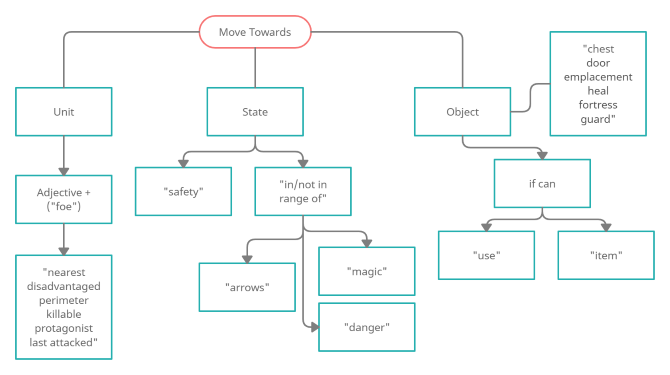
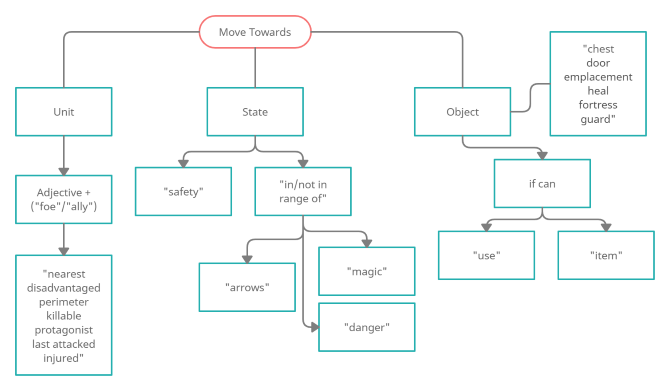
AI sheets work
-added basic assassin
-added basic healer
-updated help

diff --git a/src/UI_unit_editor_wnd.py b/src/UI_unit_editor_wnd.py
@@ -422,7 +422,7 @@ class UnitEditorWnd(QWidget):
         self.strategic_mindless_slider.setValue(self.dv_slider_dv[1])
         self.cautious_brash_slider.setValue(self.dv_slider_dv[2])
         
-        self.default_values.addItems(["--Select--", "Foot Soldier", "Pegasus (Flying) Knight", "Mindless Creature"])
+        self.default_values.addItems(["--Select--", "Foot Soldier", "Pegasus (Flying) Knight", "Mindless Creature", "Cautious Healer", "Solo Assassin"])
         default_values_button = QPushButton("Load Default")
         default_values_button.clicked.connect(self.AILoadSheets)
         
@@ -601,56 +601,55 @@ class UnitEditorWnd(QWidget):
         a.exec_()
         
     def AILoadSheets(self, ca=True):
-        if ca:
-            p = confirmAction("#Your changes will be lost if not saved, continue?")
-            p.exec_()
-            if p.return_confirm:
-                sheet = self.default_values.currentText()
-                if sheet != "--Select--":
-                    self.sheetsFromJSON()
-                    self.table_data = self.sheets[sheet]
+        p = confirmAction("#Your changes will be lost if not saved, continue?")
+        p.exec_()
+        if p.return_confirm:
+            sheet = self.default_values.currentText()
+            if sheet != "--Select--":
+                self.sheetsFromJSON()
+                self.table_data = self.sheets[sheet]
+                
+                self.dv_slider_dv = self.dv_slider_from_sheet[sheet]
                     
-                    self.dv_slider_dv = self.dv_slider_from_sheet[sheet]
-                        
-                    self.solider_lone_wolf_slider.setValue(self.dv_slider_dv[0])
-                    self.strategic_mindless_slider.setValue(self.dv_slider_dv[1])
-                    self.cautious_brash_slider.setValue(self.dv_slider_dv[2])
+                self.solider_lone_wolf_slider.setValue(self.dv_slider_dv[0])
+                self.strategic_mindless_slider.setValue(self.dv_slider_dv[1])
+                self.cautious_brash_slider.setValue(self.dv_slider_dv[2])
+                
+                for t in self.basic_table_categories:
                     
-                    for t in self.basic_table_categories:
-                        
-                        table_data = self.table_data[self.basic_table_categories.index(t)]
-                        model = TableModel(table_data)
-                        self.tables[t].setModel(model)
-                        
-                        self.tables[t].model().column_colors = self.column_colors_dict[self.basic_table_categories.index(t)]
+                    table_data = self.table_data[self.basic_table_categories.index(t)]
+                    model = TableModel(table_data)
+                    self.tables[t].setModel(model)
                     
-                        self.tables[t].model().slider_value1 = self.solider_lone_wolf_slider.value()
-                        self.tables[t].model().slider_value2 = self.strategic_mindless_slider.value()
-                        self.tables[t].model().slider_value3 = self.cautious_brash_slider.value()
-                        self.tables[t].viewport().repaint()
-        else:
-            with open(self.path+".trui", "r") as r:
+                    self.tables[t].model().column_colors = self.column_colors_dict[self.basic_table_categories.index(t)]
+                
+                    self.tables[t].model().slider_value1 = self.solider_lone_wolf_slider.value()
+                    self.tables[t].model().slider_value2 = self.strategic_mindless_slider.value()
+                    self.tables[t].model().slider_value3 = self.cautious_brash_slider.value()
+                    self.tables[t].viewport().repaint()
+
+    def loadSheet(self):
+        with open(self.path+".trui", "r") as r:
                 self.table_data = json.load(r)
                 
-            self.dv_slider_dv = self.table_data[len(self.table_data)-1]
-            print(self.dv_slider_dv)
+        self.dv_slider_dv = self.table_data[len(self.table_data)-1]
                 
-            self.solider_lone_wolf_slider.setValue(self.dv_slider_dv[0])
-            self.strategic_mindless_slider.setValue(self.dv_slider_dv[1])
-            self.cautious_brash_slider.setValue(self.dv_slider_dv[2])
+        self.solider_lone_wolf_slider.setValue(self.dv_slider_dv[0])
+        self.strategic_mindless_slider.setValue(self.dv_slider_dv[1])
+        self.cautious_brash_slider.setValue(self.dv_slider_dv[2])
             
-            for t in self.basic_table_categories:
+        for t in self.basic_table_categories:
                 
-                table_data = self.table_data[self.basic_table_categories.index(t)]
-                model = TableModel(table_data)
-                self.tables[t].setModel(model)
+            table_data = self.table_data[self.basic_table_categories.index(t)]
+            model = TableModel(table_data)
+            self.tables[t].setModel(model)
                 
-                self.tables[t].model().column_colors = self.column_colors_dict[self.basic_table_categories.index(t)]
+            self.tables[t].model().column_colors = self.column_colors_dict[self.basic_table_categories.index(t)]
             
-                self.tables[t].model().slider_value1 = self.solider_lone_wolf_slider.value()
-                self.tables[t].model().slider_value2 = self.strategic_mindless_slider.value()
-                self.tables[t].model().slider_value3 = self.cautious_brash_slider.value()
-                self.tables[t].viewport().repaint()
+            self.tables[t].model().slider_value1 = self.solider_lone_wolf_slider.value()
+            self.tables[t].model().slider_value2 = self.strategic_mindless_slider.value()
+            self.tables[t].model().slider_value3 = self.cautious_brash_slider.value()
+            self.tables[t].viewport().repaint()
 
     def sheetsFromJSON(self):
         with open("src/skeletons/sheets/basic_foot_soldier.json", "r") as rf:
@@ -659,6 +658,10 @@ class UnitEditorWnd(QWidget):
             self.sheets["Pegasus (Flying) Knight"] = json.load(rf)
         with open("src/skeletons/sheets/basic_mindless_creature.json", "r") as rf:
             self.sheets["Mindless Creature"] = json.load(rf)
+        with open("src/skeletons/sheets/basic_healer.json", "r") as rf:
+            self.sheets["Cautious Healer"] = json.load(rf)
+        with open("src/skeletons/sheets/basic_assassin.json", "r") as rf:
+            self.sheets["Solo Assassin"] = json.load(rf)
 
     def saveFileDialog(self):
         q = QFileDialog(self)
@@ -684,10 +687,12 @@ class UnitEditorWnd(QWidget):
                 with open(self.path+".trui", "w") as w:
                     json.dump(self.unit.AI_sheets, w)
                 self.unit.selfToJSON(self.path)
+                self.parent().nameChange()
         else:
             with open(self.path+".trui", "w") as w:
                 json.dump(self.unit.AI_sheets, w)
             self.unit.selfToJSON(self.path)
+            self.parent().nameChange()
     
     def openFileDialog(self):
         options = QFileDialog.Options()
@@ -726,7 +731,7 @@ class UnitEditorWnd(QWidget):
             
             self.description.setPlainText(self.unit.description)
             
-            self.AILoadSheets(ca=False)
+            self.loadSheet()
             
             if self.unit.is_friendly == False and self.unit.is_recruitable == False and self.unit.is_ally == False:
                 self.status.setCurrentText("Enemy")

diff --git a/src/UI_Dialogs.py b/src/UI_Dialogs.py
@@ -585,8 +585,8 @@ class AIHelpDialog(QDialog):
         self.active_theme = getattr(src.UI_colorTheme, data["active_theme"])
         super().__init__(parent)
         
-        self.setMinimumWidth(1000)
-        self.setMinimumHeight(760)
+        self.setMinimumWidth(1020)
+        self.setMinimumHeight(780)
         self.setStyleSheet("font-size: "+str(data["font_size"])+"px; background-color: "+self.active_theme.window_background_color+";color: "+self.active_theme.window_text_color)
         self.layout = QVBoxLayout()
 
@@ -632,15 +632,16 @@ class AIHelpDialog(QDialog):
         instructions = [
             "A move towards rule influence what object, state, or unit this unit moves towards.\n",
             "As the chart shows, each rule can only move towards one of the above (object, state, or unit.)\n\n",
-            "Units are the simplest: describe the foe with an adjective, and optionally add \"foe\" to the end.\n",
-            "For example, \"nearest\" would be the nearest unit. The chart shows the allowed unit descriptions.\n",
+            "Units are the simplest. For a foe, describe the foe with an adjective, and optionally add \"foe\" to the end.\n",
+            "For an ally/team member, choose an adjective and optionally add \"ally\". for example- \"injured ally\".\n",
+            "For example, \"nearest foe\" would be the nearest enemy unit. The chart shows the allowed unit descriptions.\n",
             "State describes the state the unit will be in if they move. States can either be \"safety\" or \"in/not in range of\".\n",
             "\"safety\" means the unit is out of danger. As for range: \"not in range of arrows\" means the unit is avoiding as many arrows as possible.\n",
             "Lastly, units can move towards objects. The format for this is object + \"if can/ if can not\" + take action.\n",
             "For example, \"chest if can open\" will move towards chests, if they can be opened by the unit."
             ]
         for t in instructions:
-            v = instructions.index(t) / 8
+            v = instructions.index(t) / 9
             color_left = QColor(self.active_theme.node_outliner_label_0)
             color_right = QColor(self.active_theme.node_outliner_label_1)
             color_left_c = [color_left.red(), color_left.green(), color_left.blue()]
